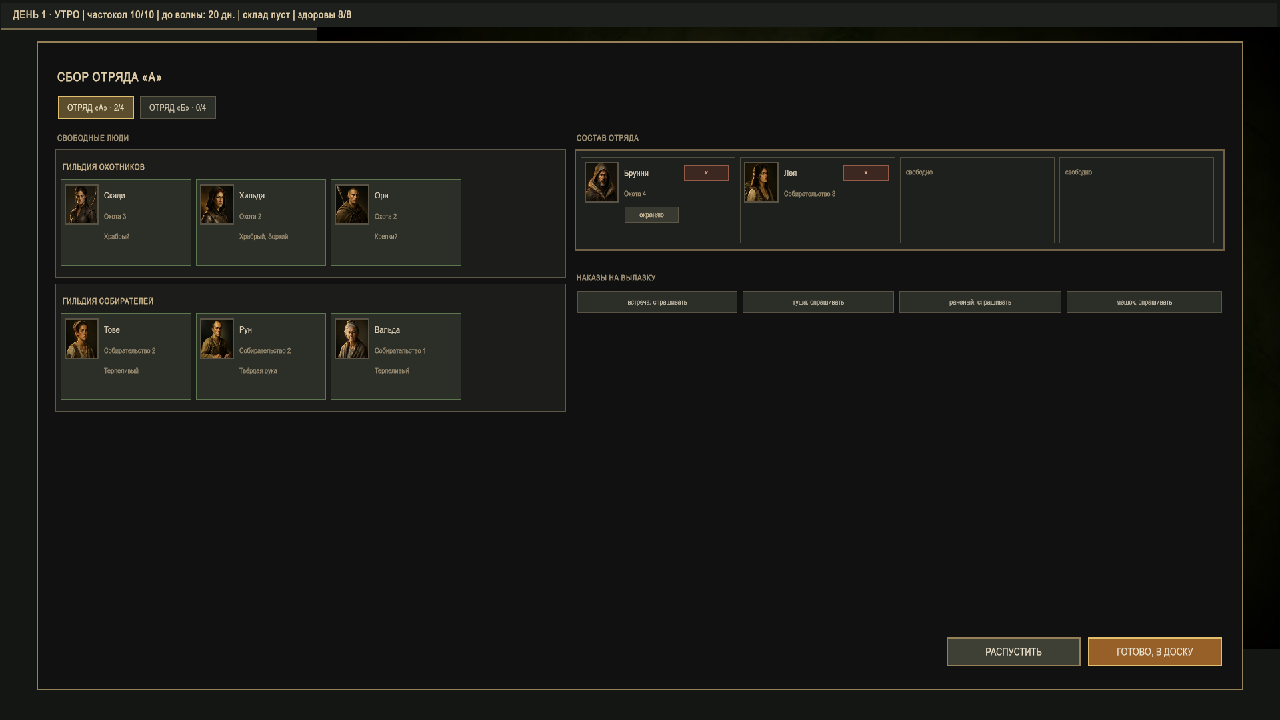
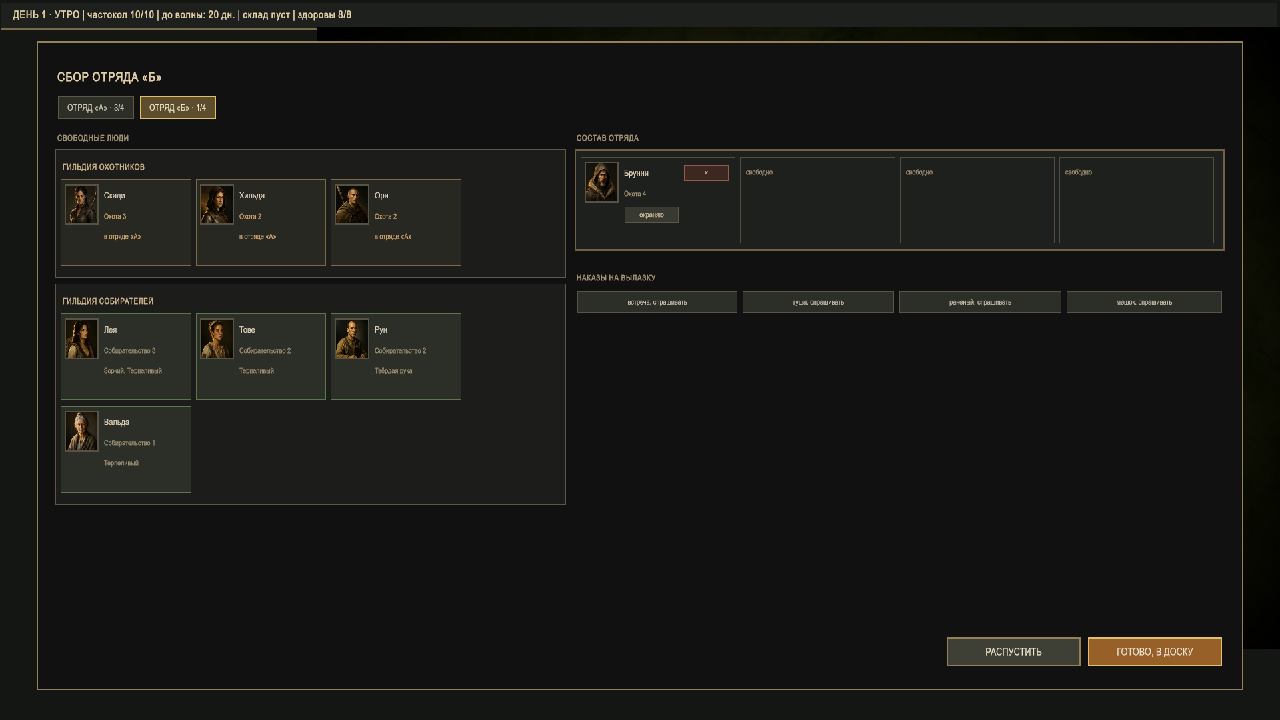
fix(ui): люди второго отряда видны и забираются кликом

diff --git a/FG/AgentScripts/ProbeGuild.cs b/FG/AgentScripts/ProbeGuild.cs
@@ -1,0 +1,49 @@
+using System.Collections.Generic;
+using System.Reflection;
+using UnityEngine;
+using UnityEngine.UIElements;
+
+/// <summary>Заполняет отряд А, переключается на Б и печатает плитки гильдий.</summary>
+public static class ProbeGuild
+{
+    private const BindingFlags Flags = BindingFlags.NonPublic | BindingFlags.Instance;
+
+    public static string Run()
+    {
+        var screen = Object.FindAnyObjectByType<ForestGuild.Game.MapScreen>();
+
+        var a = screen.World.Squads[0];
+        a.Members.Clear();
+        foreach (var id in new[] { "brunni", "skadi", "hilda", "orn" }) a.Members.Add(id);
+
+        var b = screen.World.Squads[1];
+        b.Members.Clear();
+
+        screen.Muster.Open(a, screen.Tables, screen.World, new ForestGuild.Core.Sim.DayPlan());
+
+        var root = screen.GetComponent<UIDocument>().rootVisualElement;
+        var text = "A: " + Tiles(root);
+
+        var tabs = root.Q<VisualElement>("muster-squads");
+        var buttons = tabs.Query<Button>().ToList();
+        buttons[1].SendEvent(new NavigationSubmitEvent { target = buttons[1] });
+
+        text += " || B: " + Tiles(root);
+        return text;
+    }
+
+    private static string Tiles(VisualElement root)
+    {
+        var free = root.Q<VisualElement>("muster-free");
+        var names = new List<string>();
+
+        foreach (var tile in free.Query<VisualElement>(className: "guild-tile").ToList())
+        {
+            var name = tile.Q<Label>(className: "person-name");
+            var busy = tile.ClassListContains("busy") ? "*" : "";
+            names.Add((name != null ? name.text : "?") + busy);
+        }
+
+        return string.Join(", ", names);
+    }
+}

diff --git a/FG/Assets/Scripts/Game/MusterScreen.cs b/FG/Assets/Scripts/Game/MusterScreen.cs
@@ -200,8 +200,13 @@ namespace ForestGuild.Game
 
             tile.RegisterCallback<ClickEvent>(_ =>
             {
-                if (busy) return;
-                AddMember(personId);
+                if (!busy)
+                {
+                    AddMember(personId);
+                    return;
+                }
+
+                TakeFromOtherSquad(personId);
             });
 
             if (!busy) EnableDrag(tile, personId);
@@ -374,6 +379,23 @@ namespace ForestGuild.Game
 
             _squad.Members.Add(personId);
             Rebuild();
+        }
+
+        /// Человек из второго отряда: забираем сюда, если есть место.
+        private void TakeFromOtherSquad(string personId)
+        {
+            if (_squad.Members.Count >= _tables.Tuning.GetInt("party_max")) return;
+            if (_world.ConditionOf(personId) != PersonCondition.Healthy) return;
+
+            foreach (var squad in _world.Squads)
+            {
+                if (ReferenceEquals(squad, _squad)) continue;
+                if (!squad.Members.Remove(personId)) continue;
+
+                _squad.Members.Add(personId);
+                Rebuild();
+                return;
+            }
         }
 
         // ---- драг ----

diff --git a/FG/AgentScripts/ProbeColors.cs b/FG/AgentScripts/ProbeColors.cs
@@ -1,0 +1,31 @@
+using System.Linq;
+using UnityEngine;
+using UnityEngine.UIElements;
+
+/// <summary>Сравнивает цвета занятой и свободной плитки.</summary>
+public static class ProbeColors
+{
+    public static string Run()
+    {
+        var screen = Object.FindAnyObjectByType<ForestGuild.Game.MapScreen>();
+        var root = screen.GetComponent<UIDocument>().rootVisualElement;
+        var free = root.Q<VisualElement>("muster-free");
+        var tiles = free.Query<VisualElement>(className: "guild-tile").ToList();
+
+        var busy = tiles.FirstOrDefault(t => t.ClassListContains("busy"));
+        var idle = tiles.FirstOrDefault(t => !t.ClassListContains("busy"));
+
+        return Describe("busy", busy) + " || " + Describe("idle", idle);
+    }
+
+    private static string Describe(string tag, VisualElement tile)
+    {
+        if (tile == null) return tag + "=none";
+
+        var name = tile.Q<Label>(className: "person-name");
+        return tag + ": bg=" + tile.resolvedStyle.backgroundColor
+            + " border=" + tile.resolvedStyle.borderTopColor
+            + " nameColor=" + (name != null ? name.resolvedStyle.color.ToString() : "?")
+            + " visible=" + tile.resolvedStyle.visibility;
+    }
+}

diff --git a/FG/AgentScripts/ProbeSteal.cs b/FG/AgentScripts/ProbeSteal.cs
@@ -1,0 +1,30 @@
+using System.Reflection;
+using UnityEngine;
+using UnityEngine.UIElements;
+
+/// <summary>Отряд А полон, Б пуст: открываем Сбор из меню, смотрим Б и забираем человека из А.</summary>
+public static class ProbeSteal
+{
+    private const BindingFlags Flags = BindingFlags.NonPublic | BindingFlags.Instance;
+
+    public static string Run()
+    {
+        var screen = Object.FindAnyObjectByType<ForestGuild.Game.MapScreen>();
+
+        var a = screen.World.Squads[0];
+        a.Members.Clear();
+        foreach (var id in new[] { "brunni", "skadi", "hilda", "orn" }) a.Members.Add(id);
+
+        var b = screen.World.Squads[1];
+        b.Members.Clear();
+
+        screen.GetType().GetMethod("StartMusterDemo", Flags).Invoke(screen, null);
+
+        var root = screen.GetComponent<UIDocument>().rootVisualElement;
+        var tabs = root.Q<VisualElement>("muster-squads");
+        var buttons = tabs.Query<Button>().ToList();
+        buttons[1].SendEvent(new NavigationSubmitEvent { target = buttons[1] });
+
+        return "A=" + string.Join(",", a.Members) + " B=" + string.Join(",", b.Members);
+    }
+}

diff --git a/FG/AgentScripts/ProbeClickSteal.cs b/FG/AgentScripts/ProbeClickSteal.cs
@@ -1,0 +1,32 @@
+using System.Linq;
+using UnityEngine;
+using UnityEngine.UIElements;
+
+/// <summary>Кликает по занятой плитке и проверяет переход человека в текущий отряд.</summary>
+public static class ProbeClickSteal
+{
+    public static string Run()
+    {
+        var screen = Object.FindAnyObjectByType<ForestGuild.Game.MapScreen>();
+        var root = screen.GetComponent<UIDocument>().rootVisualElement;
+        var free = root.Q<VisualElement>("muster-free");
+
+        var tile = free.Query<VisualElement>(className: "guild-tile").ToList()
+            .FirstOrDefault(t => t.ClassListContains("busy"));
+
+        if (tile == null) return "no busy tile";
+
+        var name = tile.Q<Label>(className: "person-name").text;
+
+        using (var click = ClickEvent.GetPooled())
+        {
+            click.target = tile;
+            tile.SendEvent(click);
+        }
+
+        var a = screen.World.Squads[0].Members.Count;
+        var b = screen.World.Squads[1].Members.Count;
+
+        return "clicked=[" + name + "] A=" + a + " B=" + b;
+    }
+}

diff --git a/FG/AgentScripts/ProbeOpacity.cs b/FG/AgentScripts/ProbeOpacity.cs
@@ -1,0 +1,22 @@
+using System.Linq;
+using UnityEngine;
+using UnityEngine.UIElements;
+
+/// <summary>Читает фактическую прозрачность занятой и свободной плитки.</summary>
+public static class ProbeOpacity
+{
+    public static string Run()
+    {
+        var screen = Object.FindAnyObjectByType<ForestGuild.Game.MapScreen>();
+        var root = screen.GetComponent<UIDocument>().rootVisualElement;
+        var free = root.Q<VisualElement>("muster-free");
+
+        var busy = free.Query<VisualElement>(className: "guild-tile").ToList()
+            .FirstOrDefault(t => t.ClassListContains("busy"));
+        var idle = free.Query<VisualElement>(className: "guild-tile").ToList()
+            .FirstOrDefault(t => !t.ClassListContains("busy"));
+
+        return "busy=" + (busy != null ? busy.resolvedStyle.opacity : -1)
+            + " idle=" + (idle != null ? idle.resolvedStyle.opacity : -1);
+    }
+}

diff --git a/docs/ui.md b/docs/ui.md
@@ -525,7 +525,7 @@ StandingOrders {
 | §3 Каркас | есть | Стартовое меню («НАЧАТЬ ИГРУ», «ПОИСК ОТРЯДА · СИМУЛЯЦИЯ») → окно начала дня (день + статус жителей) → планирование → день → вечер → ночь. Панель-превью справа убрана: полное досье открывается кликом по зоне |
 | §4.1 Доска | частично | Две карточки отрядов: зона-переключатель, портреты состава, время в пути, намерение, «настроить…». Кнопка внизу — «НАЧАТЬ ДЕНЬ», отладочного тумблера нет. Нет прогноза находок |
 | §4.2 Отряд-пресет | частично | `World.Squads` живёт между днями (состав, зона, намерение), но сейва нет — с перезапуском всё начинается заново |
-| §4.3 Сбор (drag&drop) | частично | Полноэкранный Сбор: **оба отряда собираются здесь** (вкладки «ОТРЯД «А» · 2/4», «ОТРЯД «Б» · 0/4»), свободные люди разложены **по гильдиям**, лоток размечен **по числу слотов отряда** (4 — занятые и «свободно»), роли охотника, наказы. Про зону здесь молчим — её выбирают на планировании. Драг реализован (PointerCapture + призрак), автотестом проверен только клик-клик |
+| §4.3 Сбор (drag&drop) | частично | Полноэкранный Сбор: **оба отряда собираются здесь** (вкладки «ОТРЯД «А» · 2/4», «ОТРЯД «Б» · 0/4»), свободные люди разложены **по гильдиям**, лоток размечен **по числу слотов отряда** (4 — занятые и «свободно»), роли охотника, наказы. Люди второго отряда видны в гильдии с пометкой «в отряде «А»» — клик забирает их сюда, если есть место. Про зону здесь молчим. Драг реализован (PointerCapture + призрак), автотестом проверен только клик-клик |
 | §4.4 Карточка жителя | частично | Портрет, имя, строка навыков («Охота 4 · Разделка 3»), черты, цвет статуса (зелёный здоров / янтарный ранен / тусклый красный мёртв). Нет шкалы выносливости |
 | §4.5 Строка итогов | есть | На карточке отряда — только время: «дорога 1 ч · в лесу 8 ч». В Сборе ни слотов, ни процентов встреч, ни дороги — только слова о составе («Втроём в лесу шумно…»). Числа считаются в ядре (`Briefing`) и видны в походе, где они и решают |
 | §4.6 Работы | есть | Отдельное окно по клику на деревню: починка, постели, заготовка, список «кто где» |

diff --git a/docs/current/2026-11-07-ui-slice/result.md b/docs/current/2026-11-07-ui-slice/result.md
@@ -312,6 +312,14 @@
 
 Проверено: 32 проверки ядра, код 0; в Play Mode вкладки переключаются (`tabs=2 switchedTo=Б`), при попытке добавить пятого состав остаётся 4 (`members=4 partyMax=4`). Скриншот `docs/images/ui/step1/muster.png`.
 
+## Итерация 26 — видно всех, и второго отряда можно забирать
+
+- Плитки людей из другого отряда больше не тонут в темноте: было `opacity: 0.45` (читалось как «их нет»), стало полное непрозрачное состояние с янтарной пометкой «в отряде «А»» и своим фоном.
+- **Из второго отряда можно забрать**: клик по такой плитке переносит человека в текущий отряд, если есть место. Раньше он был просто недоступен, и заполнить второй отряд из первого было нельзя.
+- Проверено, что при переключении на «Б» в гильдии видны все: и свободные, и занятые в «А» (`Брунни*, Скади*, Хильда*, Орн*` в отладке).
+
+Проверено: 32 проверки ядра, код 0; в Play Mode занятая плитка кликается и человек переезжает (`clicked=[Брунни] A=3 B=1`), прозрачность занятой плитки равна 1. Скриншот `docs/images/ui/step1/muster.png`.
+
 ## Заметки на будущее
 
 - `UIDocument.panelSettings`, назначенный сеттером из скриптовой сборки сцены, **не сериализуется** (`m_PanelSettings: {fileID: 0}`) — экран чёрный. Ставить через `SerializedObject` и сохранять сцену.
